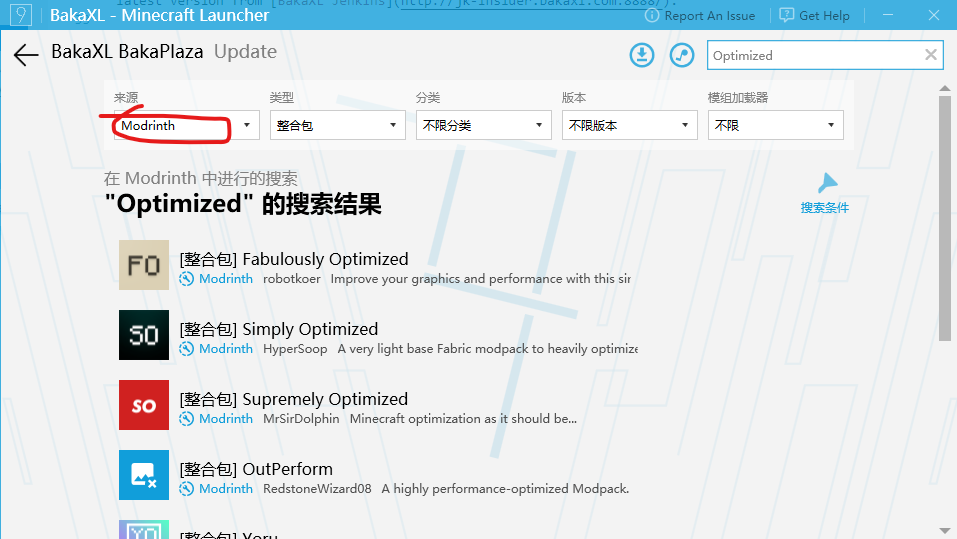
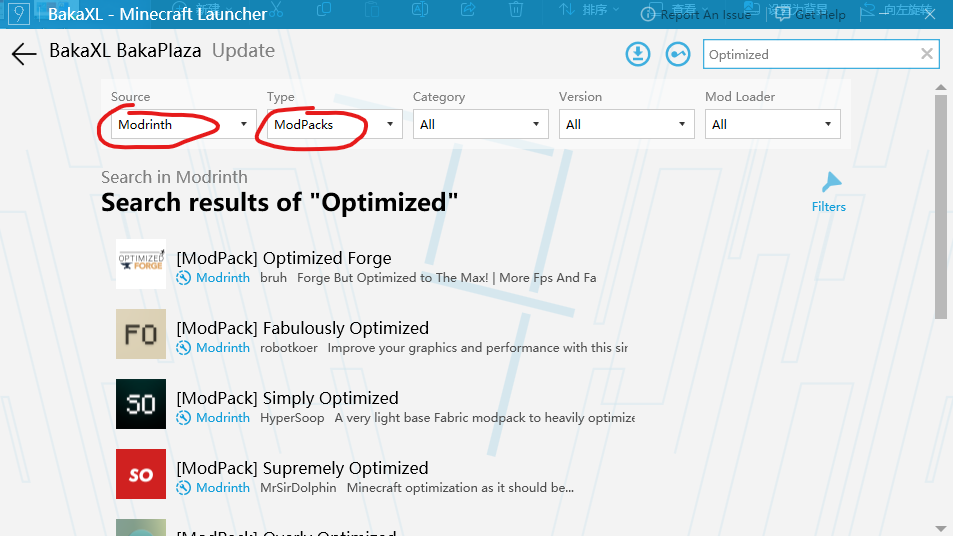
Playing ModPacks: Update the pictures of BakaXL, now they're in English (#44)

diff --git a/docs/modpacks/playing_modpacks.md b/docs/modpacks/playing_modpacks.md
@@ -8,7 +8,7 @@ Please see the guide for [creating modpacks](creating_modpacks.md).
 
 ## How do I play a modpack?
 
-Currently, the easiest ways to play a Modrinth modpack are via [ATLauncher](https://atlauncher.com), [MultiMC](https://multimc.org), or [PolyMC](https://polymc.org). You can also install Modrinth packs if you switch to the development branch of [BakaXL](https://www.bakaxl.com/) or [Hello Minecraft! Launcher (HMCL)](https://github.com/huanghongxun/HMCL).
+Currently, the easiest ways to play a Modrinth modpack are via [ATLauncher](https://atlauncher.com), [MultiMC](https://multimc.org), or [PolyMC](https://polymc.org). You can also install Modrinth packs if you switch to the development branch of [BakaXL](http://jk-insider.bakaxl.com:8888) or [Hello Minecraft! Launcher (HMCL)](https://github.com/huanghongxun/HMCL).
 
 ### ATLauncher
 
@@ -29,22 +29,26 @@ If you have a direct link to a Modrinth pack, you also have the option of import
 :::caution
 This is a Windows-only launcher. 
 
-You must switch to the Parrot or Pigeon Channel of BakaXL to install Modrinth packs. To check whether it is in one of these channels, go to Settings -> Insider Preview. If you are not in one of these channels, click on Sloth Channel and switch. Remember to click on Change button. If you cannot download the update properly, you will need to download the latest version from [BakaXL Jenkins](http://jk-insider.bakaxl.com:8888/).
+We recommend you use the Parrot (which updates almost every day) or Pigeon (which updates every Friday) Channel of BakaXL because the translation is more up-to-date.
 
-BakaXL has not been fully translated into English, so you may have trouble in reading texts. If you are interested in translating, check out [the translation effort](https://github.com/BakaXL-Launcher/BakaXL/tree/master/BakaXL_Software/3.0). 
+To check whether it is in one of these channels, go to Settings -> Insider Preview. If you are not in one of these channels, click on Sloth Channel (a.k.a. Release) and switch. Remember to click on Change button. 
+
+If you cannot download the update properly, you will need to download the latest version from [BakaXL Jenkins](http://jk-insider.bakaxl.com:8888/).
+
+BakaXL has not been fully translated into English, so you may have trouble in reading texts. If you are interested in translating, check out [the translation effort](https://github.com/BakaXL-Launcher/BakaXL/tree/master/BakaXL_Software/3.0).
 :::
 
 ![Make sure you're using beta version of BakaXL](../../static/img/tutorial/bakaxlInsiderPreview.png)
 
-To install Modrinth packs in BakaXL, go to the Start Menu then to "Add a new Minecraft Core or Modpack" (in the upper left corner). Click the Import Modpack (导入整合包) button then drag and drop the .mrpack file to the page. 
+To install Modrinth packs in BakaXL, go to the Start Menu then to "Add a new Minecraft Core or Modpack" (in the upper left corner). Click the Import Modpack button then drag and drop the .mrpack file to the page. 
 
 ![Drag and drop files](../../static/img/tutorial/bakaxlImportModpackDrop.png)
 
-You can also use BakaPlaza to install Modpacks. Go to the Start Menu then to BakaPlaza -- the search is in the upper right corner. Click on Filters (搜索条件) and All Sources (所有来源) to choose Modrinth. 
+You can also use BakaPlaza to install Modpacks. Go to the Start Menu then to BakaPlaza -- the search is in the upper right corner. Click on Filters and All Sources to choose Modrinth. 
 
 ![BakaPlaza Search](../../static/img/tutorial/bakaxlBakaPlazaSearchFilter.png)
 
-Click on the Modpack you want to install and press and Get (获取). Choose a version and click on its name to install it.
+Click on the Modpack you want to install and press and Get. Choose a version and click on its name to install it.
 
 ![BakaPlaza Modpack Details](../../static/img/tutorial/bakaxlBakaPlazaDetail.png)
 
